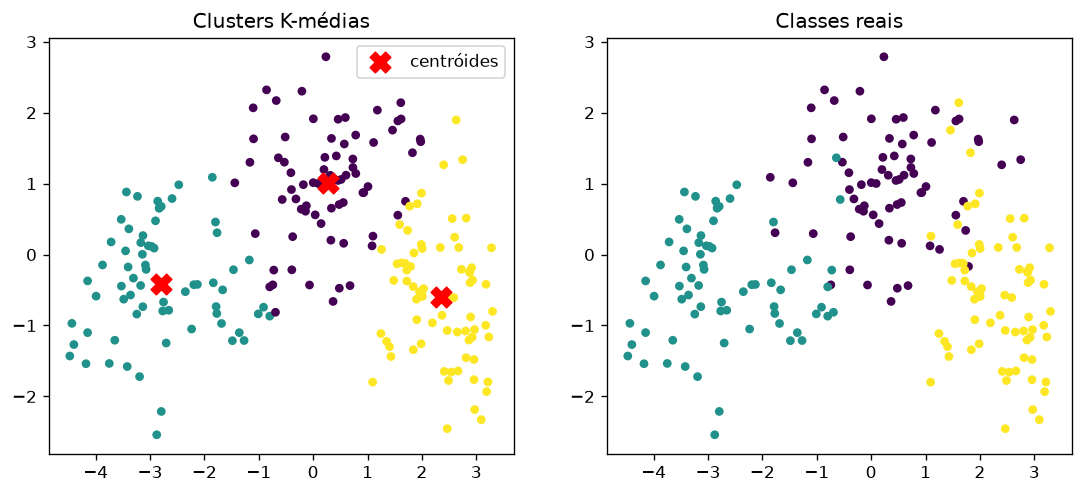
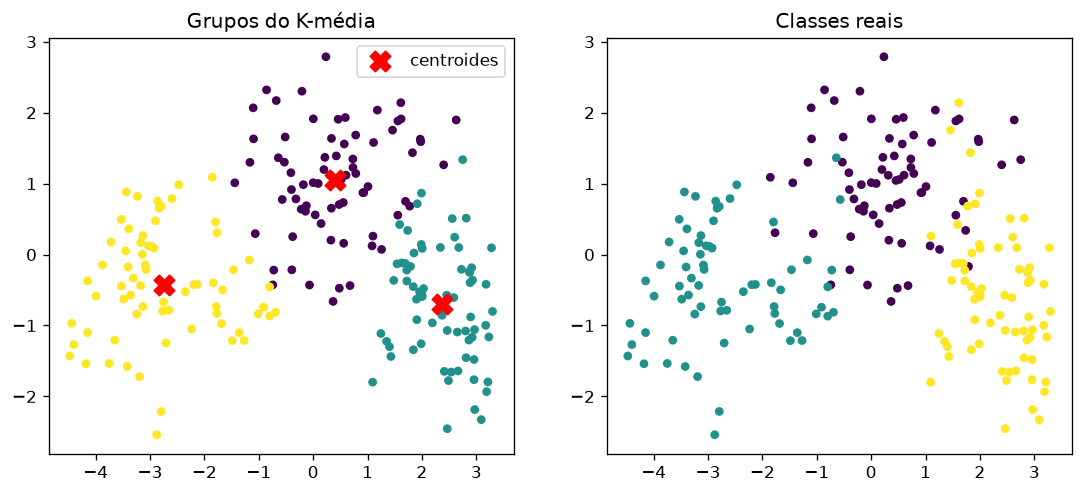
Add visualization for K-means clustering results with PCA projection

diff --git a/kmeans_simples.py b/kmeans_simples.py
@@ -55,21 +55,24 @@ acertos = sum(np.bincount(classes[grupos == j]).max() for j in range(K))
 print(f"\nPureza: {acertos / len(X):.1%}")
 
 
+# gera o grafico (png) dos grupos
 try:
-        import matplotlib
-        matplotlib.use("Agg")
-        import matplotlib.pyplot as plt
-        # PCA simples via SVD só para visualização em 2D
-        U, S, Vt = np.linalg.svd(Xn - Xn.mean(0), full_matrices=False)
-        P, Pc = Xn @ Vt[:2].T, C @ Vt[:2].T
-        fig, ax = plt.subplots(1, 2, figsize=(11, 4.5))
-        for a, lab, t in zip(ax, (rot, y), ("Clusters K-médias", "Classes reais")):
-            a.scatter(P[:, 0], P[:, 1], c=lab, cmap="viridis", s=18)
-            a.set_title(t)
-        ax[0].scatter(Pc[:, 0], Pc[:, 1], c="red", marker="X", s=150, label="centróides")
-        ax[0].legend()
-        out = Path(__file__).parent / "kmeans_seeds.png"
-        fig.savefig(out, dpi=120, bbox_inches="tight")
-        print(f"\nGráfico salvo em {out}")
+    import matplotlib
+    matplotlib.use("Agg")
+    import matplotlib.pyplot as plt
+
+    # PCA simples (SVD) so para projetar os 7 atributos em 2D
+    U, S, Vt = np.linalg.svd(X - X.mean(axis=0), full_matrices=False)
+    P = X @ Vt[:2].T              # pontos em 2D
+    Pc = centroides @ Vt[:2].T    # centroides em 2D
+
+    fig, ax = plt.subplots(1, 2, figsize=(11, 4.5))
+    for a, rotulos, titulo in zip(ax, (grupos, classes), ("Grupos do K-média", "Classes reais")):
+        a.scatter(P[:, 0], P[:, 1], c=rotulos, cmap="viridis", s=18)
+        a.set_title(titulo)
+    ax[0].scatter(Pc[:, 0], Pc[:, 1], c="red", marker="X", s=150, label="centroides")
+    ax[0].legend()
+    fig.savefig("kmeans_seeds.png", dpi=120, bbox_inches="tight")
+    print("\nGrafico salvo em kmeans_seeds.png")
 except ImportError:
-        pass
+    print("\nmatplotlib nao instalado, grafico nao gerado")
